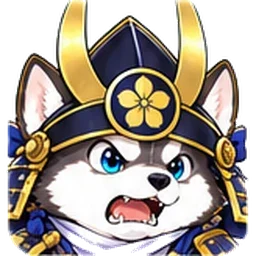
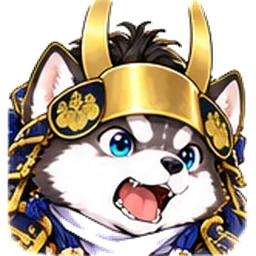
石田ミツハスキー（111）の兜を金の額当てにそろえた（立ち絵・顔・カットイン・札の裏の技絵）
Claude-Session: https://claude.ai/code/session_01H451U8SyEHQAvb9eBUNP99

diff --git a/sw.js b/sw.js
@@ -10,7 +10,7 @@
    ・どちらも駄目なときだけ「つながりませぬ」の紙を出す。
 
    直したら CACHE の数を上げること。上げないと古い覚えが残る。 */
-const CACHE = 'wanko-v97';
+const CACHE = 'wanko-v98';
 const SHELL = ['./', './index.html', './manifest.webmanifest'];
 
 self.addEventListener('install', (e) => {
